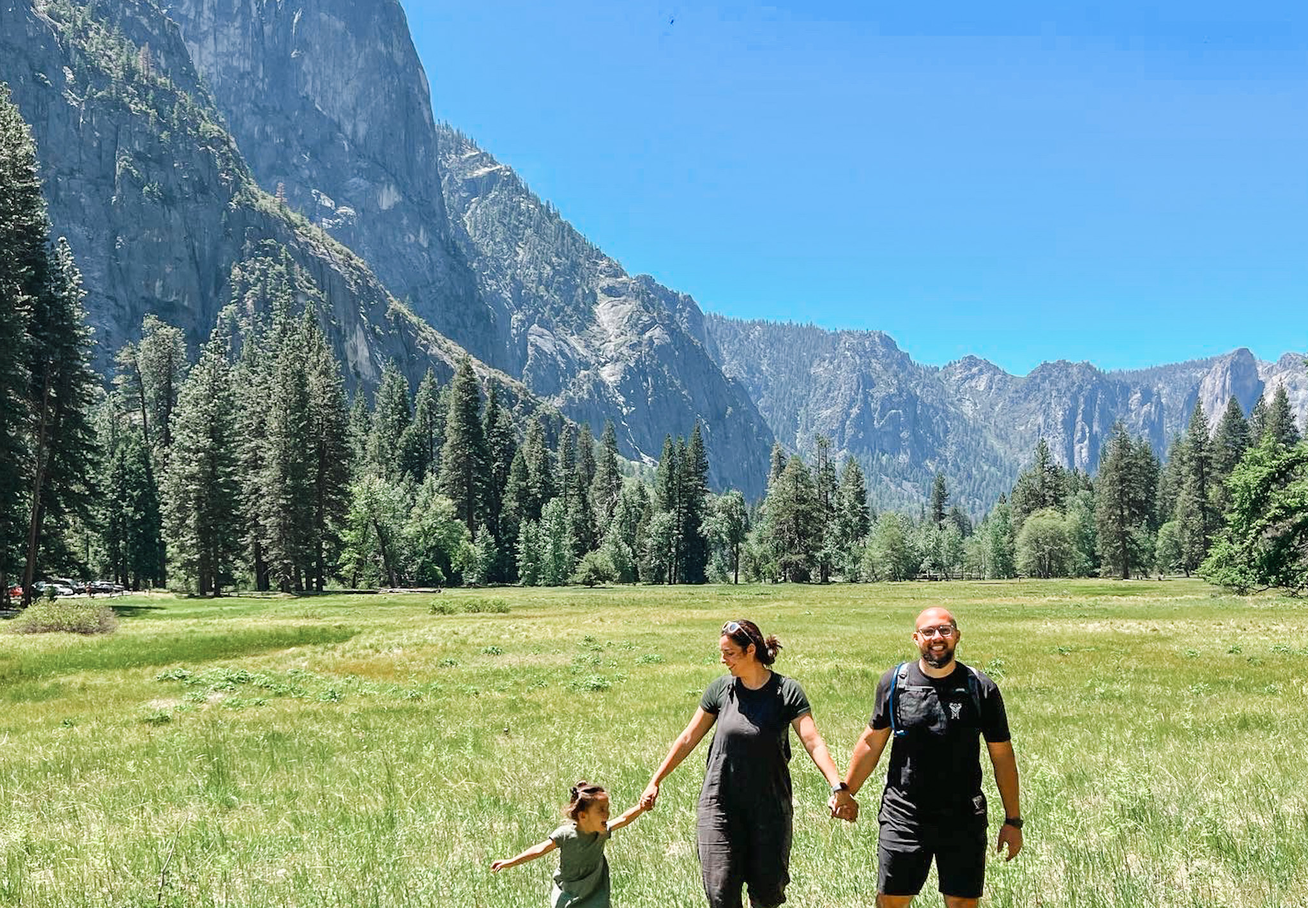
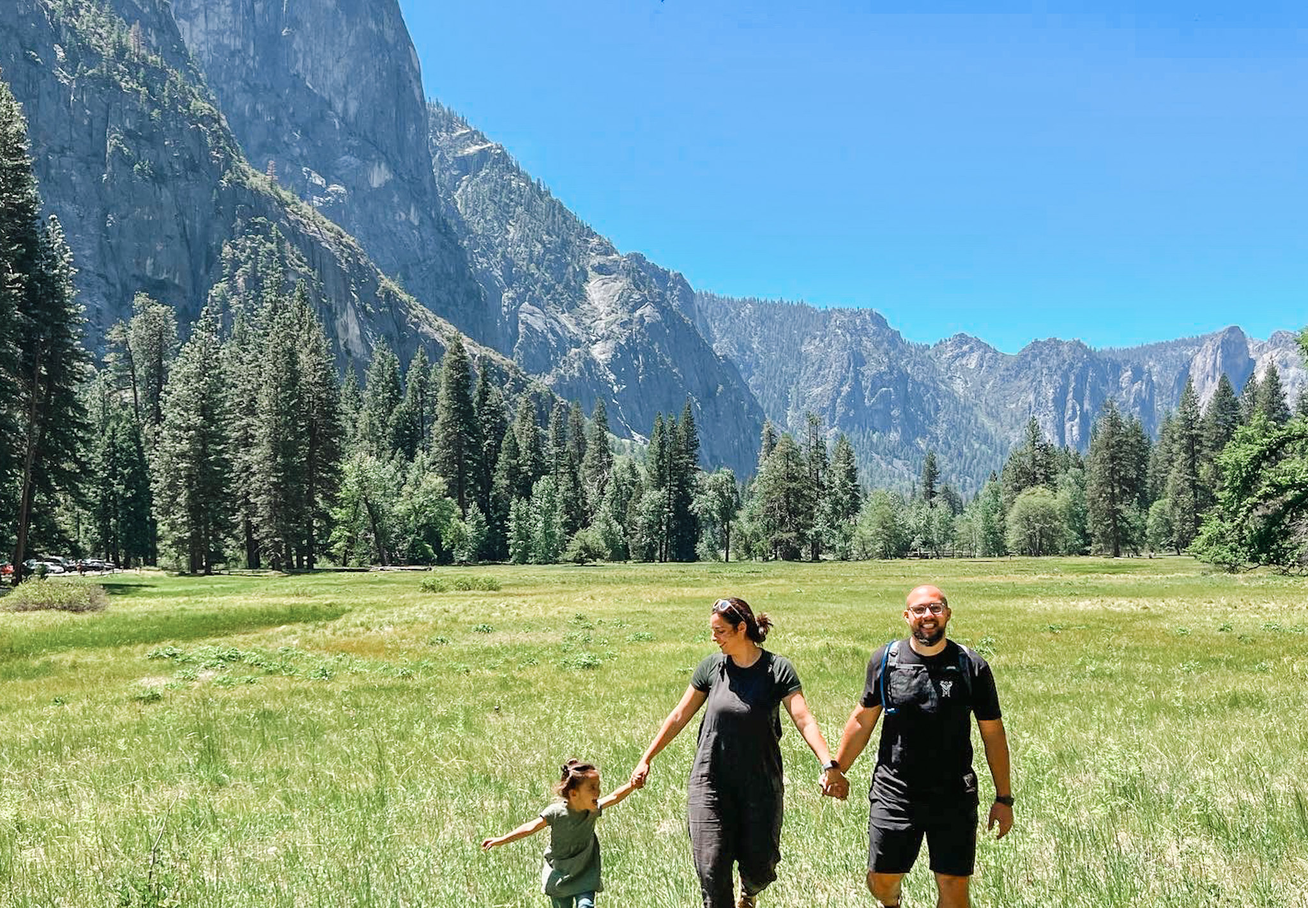
update cover image

diff --git a/docs/404.html b/docs/404.html
@@ -5,7 +5,7 @@
 <title>404 Page not found</title>
 
 
-  <link rel="shortcut icon" href="https://ferreira.page/images/flag-colombia.png" type="image/png"
+  <link rel="shortcut icon" href="ferreira.page/images/flag-colombia.png" type="image/png"
 />
 
 
@@ -20,22 +20,22 @@
 <meta name="MobileOptimized" content="320" />
 <meta name="viewport" content="width=device-width, initial-scale=1.0" />
 
-<link rel="stylesheet" href="https://ferreira.page/css/screen.css" />
-<link rel="stylesheet" href="https://ferreira.page/css/fonts.css" type="text/css" />
+<link rel="stylesheet" href="ferreira.page/css/screen.css" />
+<link rel="stylesheet" href="ferreira.page/css/fonts.css" type="text/css" />
 <link
   rel="stylesheet"
-  href="https://ferreira.page/fork-awesome/css/fork-awesome.min.css"
+  href="ferreira.page/fork-awesome/css/fork-awesome.min.css"
   type="text/css"
 />
 
 <meta property="og:title" content="404 Page not found" />
 <meta property="og:description" content="Ferreira&#39;s Adoption Journey" />
 <meta property="og:type" content="website" />
-<meta property="og:url" content="https://ferreira.page/404.html" /><meta property="og:image" content="https://ferreira.page/images/cover-image.jpg"/><meta property="og:site_name" content="Ferreira&#39;s Adoption Journey" />
+<meta property="og:url" content="ferreira.page/404.html" /><meta property="og:image" content="ferreira.page/images/cover-image.jpg"/><meta property="og:site_name" content="Ferreira&#39;s Adoption Journey" />
 
 
 <meta name="twitter:card" content="summary_large_image"/>
-<meta name="twitter:image" content="https://ferreira.page/images/cover-image.jpg"/>
+<meta name="twitter:image" content="ferreira.page/images/cover-image.jpg"/>
 
 <meta name="twitter:title" content="404 Page not found"/>
 <meta name="twitter:description" content="Ferreira&#39;s Adoption Journey"/>
@@ -101,20 +101,20 @@
 
 
 
-<link rel="apple-touch-icon" sizes="180x180" href="https://ferreira.page/%20images/apple-touch-icon.png" />
-<link rel="icon" type="image/png" sizes="32x32" href="https://ferreira.page/%20images/favicon-32x32.png" />
-<link rel="icon" type="image/png" sizes="16x16" href="https://ferreira.page/%20images/favicon-16x16.png" /><body>
+<link rel="apple-touch-icon" sizes="180x180" href="ferreira.page/%20images/apple-touch-icon.png" />
+<link rel="icon" type="image/png" sizes="32x32" href="ferreira.page/%20images/favicon-32x32.png" />
+<link rel="icon" type="image/png" sizes="16x16" href="ferreira.page/%20images/favicon-16x16.png" /><body>
   <main class="content page-template 404" role="main">
     <article class="post page">
       <header class="post-header">
-        <a id="blog-logo" href="https://ferreira.page/">
+        <a id="blog-logo" href="ferreira.page/">
           Ferreira&#39;s Adoption Journey
         </a>
       </header>
       <h1 class="post-title">404 - Page Not Found</h1>
       <section class="post-content">
         Give it another try:
-        <a href="https://ferreira.page/" alt="Homepage">Back to the homepage</a>.
+        <a href="ferreira.page/" alt="Homepage">Back to the homepage</a>.
       </section>
     </article>
   </main>
@@ -130,11 +130,11 @@
   </div>
 </footer>
 
-    <script type="text/javascript" src='https://ferreira.page/js/jquery-1.11.3.min.js'></script>
+    <script type="text/javascript" src='ferreira.page/js/jquery-1.11.3.min.js'></script>
 
     
-    <script type="text/javascript" src='https://ferreira.page/js/icons.js'></script>
-    <script type="text/javascript" src='https://ferreira.page/js/index.js'></script>
+    <script type="text/javascript" src='ferreira.page/js/icons.js'></script>
+    <script type="text/javascript" src='ferreira.page/js/index.js'></script>
     
 </body>
 </html>

diff --git a/docs/index.html b/docs/index.html
@@ -5,7 +5,7 @@
 <title>Ferreira&#39;s Adoption Journey</title>
 
 
-  <link rel="shortcut icon" href="https://ferreira.page/images/flag-colombia.png" type="image/png"
+  <link rel="shortcut icon" href="ferreira.page/images/flag-colombia.png" type="image/png"
 />
 
 
@@ -20,22 +20,22 @@
 <meta name="MobileOptimized" content="320" />
 <meta name="viewport" content="width=device-width, initial-scale=1.0" />
 
-<link rel="stylesheet" href="https://ferreira.page/css/screen.css" />
-<link rel="stylesheet" href="https://ferreira.page/css/fonts.css" type="text/css" />
+<link rel="stylesheet" href="ferreira.page/css/screen.css" />
+<link rel="stylesheet" href="ferreira.page/css/fonts.css" type="text/css" />
 <link
   rel="stylesheet"
-  href="https://ferreira.page/fork-awesome/css/fork-awesome.min.css"
+  href="ferreira.page/fork-awesome/css/fork-awesome.min.css"
   type="text/css"
 />
 
 <meta property="og:title" content="" />
 <meta property="og:description" content="Ferreira&#39;s Adoption Journey" />
 <meta property="og:type" content="website" />
-<meta property="og:url" content="https://ferreira.page/" /><meta property="og:image" content="https://ferreira.page/images/cover-image.jpg"/><meta property="og:site_name" content="Ferreira&#39;s Adoption Journey" />
+<meta property="og:url" content="ferreira.page/" /><meta property="og:image" content="ferreira.page/images/cover-image.jpg"/><meta property="og:site_name" content="Ferreira&#39;s Adoption Journey" />
 
 
 <meta name="twitter:card" content="summary_large_image"/>
-<meta name="twitter:image" content="https://ferreira.page/images/cover-image.jpg"/>
+<meta name="twitter:image" content="ferreira.page/images/cover-image.jpg"/>
 
 <meta name="twitter:title" content=""/>
 <meta name="twitter:description" content="Ferreira&#39;s Adoption Journey"/>
@@ -101,9 +101,9 @@
 
 
 
-<link rel="apple-touch-icon" sizes="180x180" href="https://ferreira.page/%20images/apple-touch-icon.png" />
-<link rel="icon" type="image/png" sizes="32x32" href="https://ferreira.page/%20images/favicon-32x32.png" />
-<link rel="icon" type="image/png" sizes="16x16" href="https://ferreira.page/%20images/favicon-16x16.png" /><body>
+<link rel="apple-touch-icon" sizes="180x180" href="ferreira.page/%20images/apple-touch-icon.png" />
+<link rel="icon" type="image/png" sizes="32x32" href="ferreira.page/%20images/favicon-32x32.png" />
+<link rel="icon" type="image/png" sizes="16x16" href="ferreira.page/%20images/favicon-16x16.png" /><body>
 
 
 
@@ -200,11 +200,11 @@ Updates will be sent out via specific channels so if you want to join those, rea
   </div>
 </footer>
 
-    <script type="text/javascript" src='https://ferreira.page/js/jquery-1.11.3.min.js'></script>
+    <script type="text/javascript" src='ferreira.page/js/jquery-1.11.3.min.js'></script>
 
     
-    <script type="text/javascript" src='https://ferreira.page/js/icons.js'></script>
-    <script type="text/javascript" src='https://ferreira.page/js/index.js'></script>
+    <script type="text/javascript" src='ferreira.page/js/icons.js'></script>
+    <script type="text/javascript" src='ferreira.page/js/index.js'></script>
     
 </body>
 </html>
